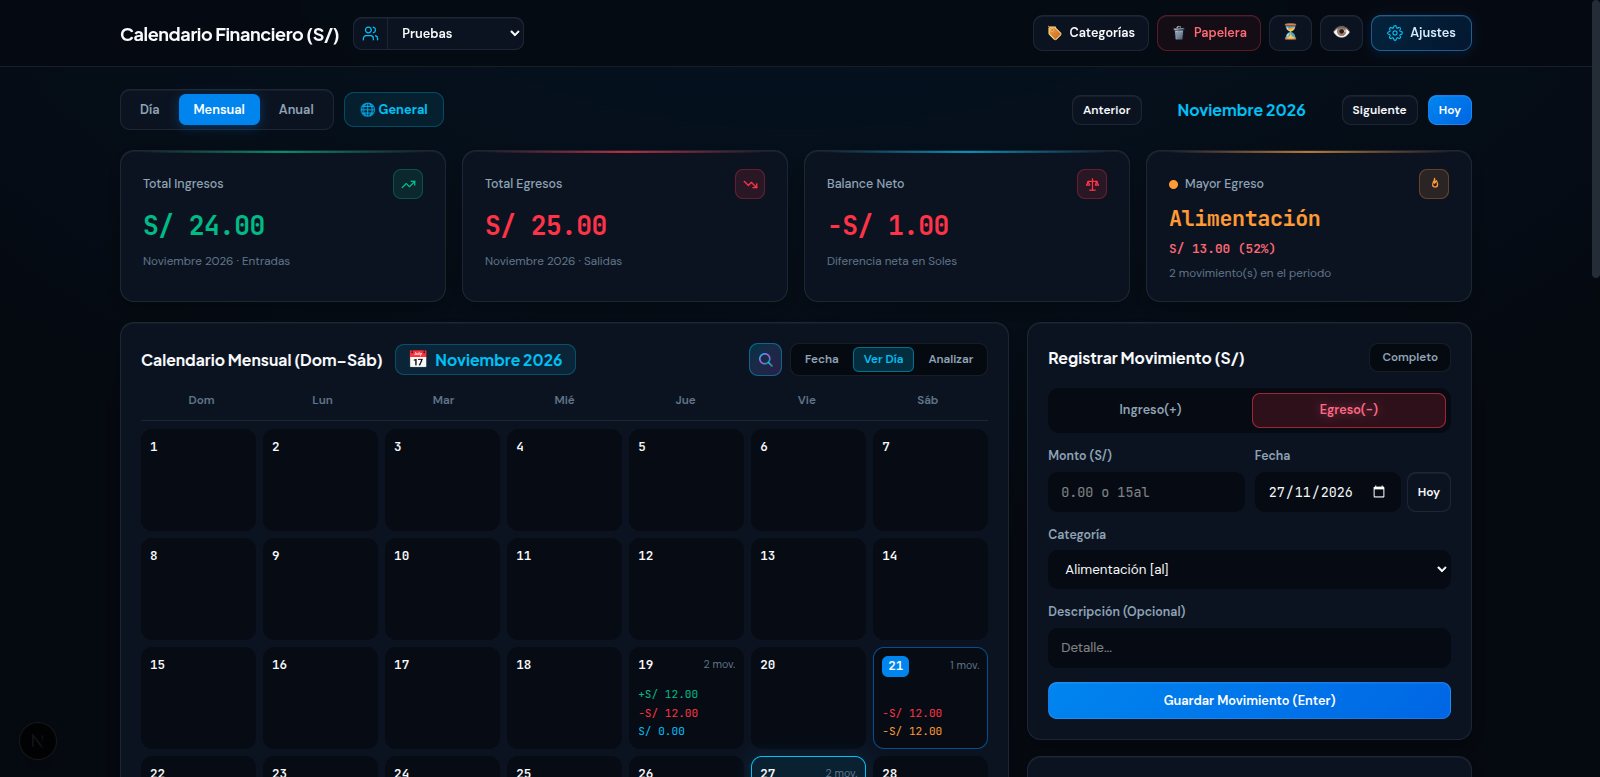
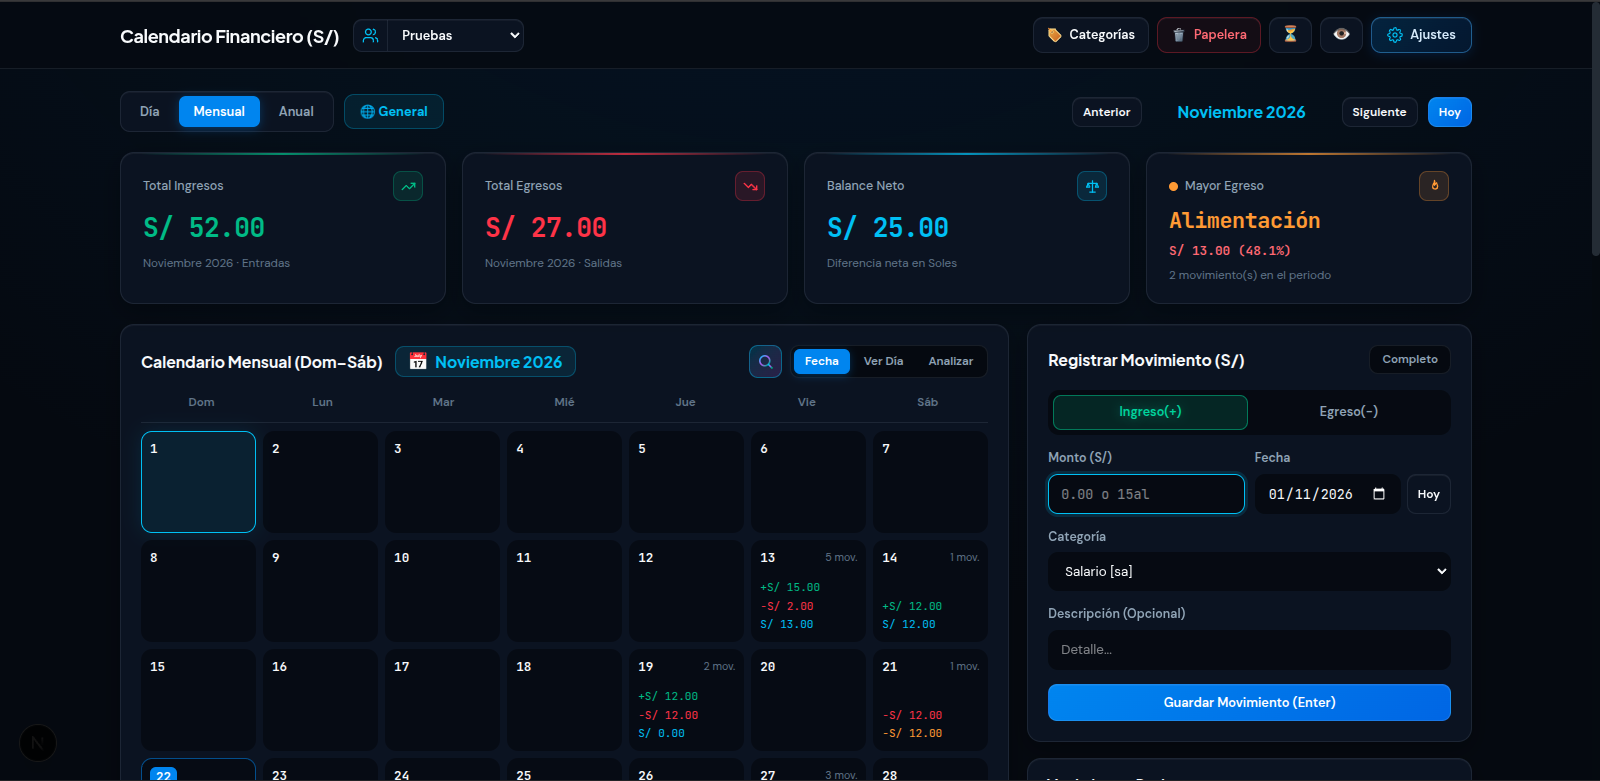
Version 5 con README.md

diff --git a/README.md b/README.md
@@ -1,5 +1,4 @@
-# 📅 Calendario Financiero (S/)
-
+# 📅 Calendario Financiero (S/)    
 Aplicación web full-stack para gestionar finanzas personales en Soles peruanos (`S/`), con interfaz oscura, múltiples vistas temporales y registro rápido de transacciones mediante atajos de teclado.
 
 ![Vista Principal del Calendario Financiero](./docs/preview-calendario.png)
@@ -18,38 +17,38 @@ Aplicación web full-stack para gestionar finanzas personales en Soles peruanos 
 * **Backend:** Next.js API Routes / Server Actions
 * **Base de Datos:** PostgreSQL
 
-## 🚀 Inicialización del Proyecto
+## 🚀 Inicialización del Proyecto Mediante Terminal
 
 ### 1. Clonar el repositorio
-
+En la terminal con cd ubicate en donde deseas que se descargue el proyecto y ejecuta:
 ```bash
 git clone https://github.com/jossd1/Calendario-next.git
 cd calendario-next-5
 ```
 
 ### 2. Instalar dependencias
-
+Pesaran aproximadamente de 400MB a más.
 ```bash
 npm install
 ```
 
 ### 3. Configurar el entorno (`.env`)
 
-Copia la plantilla `.env.example` en la raíz del proyecto para crear tu archivo `.env`:
+Comando para copiar la plantilla `.env.example` en la raíz del proyecto para crear tu archivo `.env`:
 
 ```bash
 cp .env.example .env
 ```
 
-Abre `.env` y coloca tus credenciales locales de PostgreSQL:
+Abre `.env` y coloca la contraseña de PostgreSQL reemplazando la parte "tu_contraseña" por la tuya:
 
 ```env
 DATABASE_URL="postgresql://postgres:tu_contraseña@localhost:5432/calendario_financiero"
 ```
 
 ### 4. Crear la base de datos y tablas (`schema.sql`)
-
-Ejecuta el archivo `schema.sql` ubicado en la raíz para crear la base de datos `calendario_financiero`, sus tablas (`perfiles`, `categorias`, `transacciones`, `presupuestos`, `ajustes_app`) y los índices:
+Debes tener PostgreSQL instalado para:  
+Ejecutar el archivo `schema.sql` ubicado en la raíz para crear la base de datos `calendario_financiero`, sus tablas (`perfiles`, `categorias`, `transacciones`, `presupuestos`, `ajustes_app`) y los índices:
 
 ```bash
 psql -U postgres -f schema.sql
@@ -61,20 +60,203 @@ psql -U postgres -f schema.sql
 npm run dev
 ```
 
-Abre `http://localhost:3000` en tu navegador.
+Abre `http://localhost:3000` en tu navegador escribiendo esto en la barra de direcciones:
+```bash
+http://localhost:3000
+```
+### 6. Ahora prueba la 
+## Guía de funcionalidades (de más útil a menos cotidiana)
+
+1. **Atajos literales en el campo rápido:**
+   - En "Registrar Movimiento" puedes escribir monto + código exacto de categoría (ej. `15al`) y pulsa `Enter` en el   mismo apartado.
+   - Detecta automáticamente monto, categoría y tipo (Ingreso o Egreso).
+   - Si el atajo no existe, limpia el campo sin registrar nada y muestra un aviso sutil.
+
+2. **Mover fecha con las flechas desde el campo de Monto:**
+   - Con el foco en Monto y el campo vacío puedes moverte en el calendario para cambiar la fecha con las flechas:
+     - `←` / `→`: retrocede o avanza 1 día.
+     - `↑` / `↓`: retrocede o avanza 1 semana (7 días).
+   - Si al moverte cruzas de mes, el calendario cambia automáticamente de mes.
+
+3. **Modo Simple en Registrar Movimiento:**
+   - Arriba a la Derecha de "Registrar Movimiento" hay un boton que oculta Fecha, Categoría y Descripción para registrar en 1 solo campo usando tus atajos y solo la fecha seleccionado en el canlendario.
+
+4. **Modos de clic del calendario:**
+   - **Fecha:** fija la fecha en el formulario sin quitar el foco del campo en el que estés escribiendo.
+   - **Ver día:** abre el apartado "Dia" con todos los registros de ese mismo día en donde puedes eliminar y editar.
+   - **Analizar:** analiza cualquier rango en 2 toques (desde → hasta), incluso combinando vista Mensual y Anual (si tocas al revés, invierte el rango automáticamente).
+
+5. **Lupa Mágica (salto rápido de fecha):**
+   - Tecla `Enter` para avanzar entre pasos, `Backspace` en campo vacío para volver atrás, `Espacio` o `Esc` para cancelar.
+   - Checkbox **Día**: si lo marcas, pide primero el día y salta a la Vista Día.
+   - Checkbox **Año** (activo por defecto): si lo desmarcas, omite escribir el año y usa automáticamente el año actual que se esta viendo.
+
+6. **Pagos Pendientes y Programados:**
+   - El *badge* rojizo indica cuántos pendientes tienes.
+   - Al abrir el modal puedes crear nuevos movimientos Pendiente / Programado, editarlos o confirmarlos como `✓ Pagado` en 1 clic (sin afectar tu saldo real salvo que actives "Incluir Pendientes en KPIs").
+
+7. **Movimientos Recientes + Tabla con Scroll Infinito:**
+   - La tarjeta bajo el formulario muestra los últimos 4 registros del periodo para editar en 1 clic.
+   - La tabla inferior filtra por texto, tipo y categoría y carga más al hacer scroll.
+
+8. **Análisis y Gráficos + Modos:**
+   - En el modo automatico, toma la vista vista actual y lo pone automaticamente enel  desde y el hasta.
+   - En el modo Manual puedes fijar el Desde / Hasta exactos.
+
+9. **Vista General:**
+   - **Panorama:** gráfico mixto interactivo donde las píldoras superiores muestran/ocultan series sin tachar + Top 5 Movimientos + Récords.
+   - **Todos los Años:** vista anual con opción multi-perfil.
+   - **Ajustes:** Algunos campos se puedes desactivar en Ajustes
+
+10. **Seguridad y Privacidad:**
+    - `👁` enmascara todos los montos con `S/ •••` (incluyendo Papelera y Programados).
+    - `🔒` Requiere activar, bloquea la app con PIN cuando solo cuando lo presionas, el ingreso al perfil es libre por comdidad (`scrypt`).
+    - Para eliminar se exige doble clic por seguridad(`⚠ ¿Seguro?`).
+    - En la papelera, puedes restaurar lo eliminado si fue por error.
+
+11. **Presupuestos y Alerta de Tope Diario:**
+    - Barras de progreso por categoría (base mensual o por mes).
+    - Alertas ámbar + *toast* cuando un día supera tu tope de gasto diario.
+
+12. **Personalización y Respaldo:**
+    - Límite de años `2000–3000` desactivable en Ajustes.
+    - Densidad Cómoda/Compacta.
+    - Edición de Textos en Pantalla (`Ctrl+Z` / `Ctrl+Y`, puedes dejar campos vacios).
+    - Importación/exportación `.CSV` y `.JSON`.
+
+
 
 ## 📁 Estructura del Proyecto
 
 ```text
-├── docs/                # Capturas de pantalla
-├── public/              # Recursos estáticos e iconos SVG
+calendario-financiero-next.v2/
+├── docs/
+│   └── preview-calendario.png
+├── public/
+│   ├── icons/
+│   │   ├── ajustes.svg
+│   │   ├── categorias.svg
+│   │   ├── papelera.svg
+│   │   └── perfiles.svg
+│   └── img/
+│       └── logo.png
 ├── src/
-│   ├── app/             # Páginas y endpoints de Next.js
-│   ├── components/      # Componentes de interfaz
-│   └── lib/             # Utilidades, moneda (S/) y lógica de atajos
-├── .env.example         # Plantilla de variables de entorno
-├── .gitignore           # Archivos ignorados por Git
-├── package.json         # Dependencias y scripts
-├── README.md            # Documentación
-└── schema.sql           # Esquema de base de datos PostgreSQL
+│   ├── app/
+│   │   ├── api/
+│   │   │   ├── ajustes/route.ts
+│   │   │   ├── auth/pin/route.ts
+│   │   │   ├── categorias/route.ts
+│   │   │   ├── dashboard/route.ts
+│   │   │   ├── exportar/
+│   │   │   │   ├── csv/route.ts
+│   │   │   │   └── json/route.ts
+│   │   │   ├── importar/
+│   │   │   │   ├── csv/route.ts
+│   │   │   │   └── json/route.ts
+│   │   │   ├── perfiles/
+│   │   │   │   ├── route.ts
+│   │   │   │   ├── seleccionar/route.ts
+│   │   │   │   └── [id]/route.ts
+│   │   │   ├── presupuestos/route.ts
+│   │   │   └── transacciones/
+│   │   │       ├── route.ts
+│   │   │       ├── papelera/route.ts
+│   │   │       └── [id]/
+│   │   │           ├── route.ts
+│   │   │           ├── permanente/route.ts
+│   │   │           └── restaurar/route.ts
+│   │   ├── globals.css
+│   │   ├── layout.tsx
+│   │   └── page.tsx
+│   ├── components/
+│   │   ├── AppIcon.tsx
+│   │   ├── EditableText.tsx
+│   │   ├── FormularioRegistro.tsx
+│   │   ├── KpiResumen.tsx
+│   │   ├── MovimientosRecientes.tsx
+│   │   ├── PanelProgramados.tsx
+│   │   ├── PinLockScreen.tsx
+│   │   ├── TablaTransacciones.tsx
+│   │   ├── Topbar.tsx
+│   │   ├── WorkspaceToolbar.tsx
+│   │   ├── analisis/
+│   │   │   ├── GraficosFinancieros.tsx
+│   │   │   ├── PanelAnalisis.tsx
+│   │   │   ├── PanelPresupuestos.tsx
+│   │   │   └── ResumenCategoriasTabla.tsx
+│   │   ├── calendario/
+│   │   │   ├── CalendarioPanel.tsx
+│   │   │   ├── GeneralGraficoEvolucion.tsx
+│   │   │   ├── GeneralVistaAnuales.tsx
+│   │   │   ├── VistaAnual.tsx
+│   │   │   ├── VistaDia.tsx
+│   │   │   ├── VistaGeneral.tsx
+│   │   │   ├── VistaMensual.tsx
+│   │   │   └── VistaSemanal.tsx
+│   │   ├── dashboard/
+│   │   │   ├── DashboardClient.tsx
+│   │   │   ├── DashboardModales.tsx
+│   │   │   ├── EditModeFloatingBar.tsx
+│   │   │   └── ToastContainer.tsx
+│   │   ├── modales/
+│   │   │   ├── AjustesControles.tsx
+│   │   │   ├── CategoriaListaBox.tsx
+│   │   │   ├── ModalAjustes.tsx
+│   │   │   ├── ModalBuscadorMagico.tsx
+│   │   │   ├── ModalCategorias.tsx
+│   │   │   ├── ModalEditarTx.tsx
+│   │   │   ├── ModalPapelera.tsx
+│   │   │   ├── ModalPerfiles.tsx
+│   │   │   ├── ModalProgramados.tsx
+│   │   │   ├── PerfilEdicionForm.tsx
+│   │   │   └── ajustes/
+│   │   │       ├── SeccionApariencia.tsx
+│   │   │       ├── SeccionDatos.tsx
+│   │   │       ├── SeccionGeneral.tsx
+│   │   │       ├── SeccionModulos.tsx
+│   │   │       └── SeccionPrivacidad.tsx
+│   │   └── registro/
+│   │       └── CamposCompletosRegistro.tsx
+│   ├── db/
+│   │   ├── index.ts
+│   │   └── schema.ts
+│   ├── hooks/
+│   │   ├── useAnalisisRango.ts
+│   │   ├── useDashboardState.ts
+│   │   └── useEditModeTextos.ts
+│   ├── lib/
+│   │   ├── ajustes.ts
+│   │   ├── atajos.ts
+│   │   ├── format.ts
+│   │   ├── icons.ts
+│   │   ├── perfil.ts
+│   │   ├── pin.ts
+│   │   └── dashboard/
+│   │       ├── analisis.ts
+│   │       ├── calendario.ts
+│   │       ├── general.ts
+│   │       ├── historial.ts
+│   │       ├── index.ts
+│   │       ├── periodos.ts
+│   │       ├── presupuestos.ts
+│   │       └── queries.ts
+│   ├── styles/
+│   │   ├── calendar.css
+│   │   ├── features.css
+│   │   ├── layout.css
+│   │   ├── modals.css
+│   │   ├── settings.css
+│   │   └── tokens.css
+│   └── types/
+│       ├── general.ts
+│       └── index.ts
+├── .env
+├── .env.example
+├── .gitignore
+├── drizzle.config.ts
+├── next-env.d.ts
+├── package.json
+├── README.md
+├── schema.sql
+└── tsconfig.json
 ```
